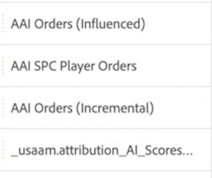
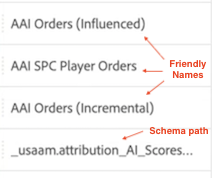
More input from Sunny

diff --git a/help/integrations/attribution-ai.md b/help/integrations/attribution-ai.md
@@ -13,7 +13,7 @@ exl-id: 5ab563b9-d4f6-4210-8789-e16e5c93d968
 
 [Attribution AI](https://experienceleague.adobe.com/docs/experience-platform/intelligent-services/attribution-ai/overview.html?lang=en), as part of Adobe Experience Platform Intelligent Services, is a multi-channel, algorithmic attribution service that calculates the influence and incremental impact of customer interactions against specified outcomes. With Attribution AI, marketers can measure and optimize marketing and advertising spend by understanding the impact of every individual customer interaction across each phase of the customer journeys. 
 
-Attribution AI integrates with Customer Journey Analytics (CJA) to the extent that Attribution AI runs models against data and then CJA imports the output of those models as a data set, which can then be integrated with the rest of your CJA data sets. Attribution AI-enabled datasets can be then be leveraged in data views and reporting in CJA. 
+Attribution AI integrates with Customer Journey Analytics (CJA) to the extent that Attribution AI runs models against customers' marketing touchpoints and conversion datasources. CJA then imports the output of those models as a data set, or it can be integrated with the rest of your CJA data sets. Attribution AI-enabled datasets can be then be leveraged in data views and reporting in CJA. 
 
 Attribution AI supports 3 Experience Platform schemas: Experience Event, Adobe Analytics, and Consumer Experience Event.
 
@@ -46,7 +46,7 @@ In Experience Platform, create an Attribution AI instance by selecting and mappi
 
 ### Step 2: Set up a CJA connection to Attribution AI datasets
 
-In CJA, you can now [create one or more connections](/help/connections/create-connection.md) to Experience Platform datasets that have been instrumented for Attribution AI. These datasets appears with the "Attribution AI Scores" prefix, as shown here:
+In CJA, you can now [create one or more connections](/help/connections/create-connection.md) to Experience Platform datasets that have been instrumented for Attribution AI. These datasets appear with the "Attribution AI Scores" prefix, as shown here:
 
 ![AAI scores](assets/aai-scores.png)
 
@@ -59,6 +59,11 @@ In CJA, [create one or more data views](/help/data-views/create-dataview.md) tha
 In a CJA Workspace project, you can pull in metrics like "AAI Orders", and dimensions like "AAI Campaign Name" or "AAI Marketing Channel", for example. 
 
 ![AAI dimensions](assets/aai-dims.png)
+
+>[!IMPORTANT]
+>
+>These dimensions and metrics are not natively named in this way. These are "friendly names". The [naming convention in Attribution AI](https://experienceleague.adobe.com/docs/experience-platform/intelligent-services/attribution-ai/input-output.html?lang=en#attribution-ai-output-data) follows the schema path. We recommend renaming the long schema path names in AAI to short, more user-friendly names (dimensions/metrics) in CJA. You can do so in **[!UICONTROL Data views]** > **[!UICONTROL Edit data view]** > **[!UICONTROL Components]** tab > **[!UICONTROL Schema fields]** -> Click on a schema field -> **[!UICONTROL Component name]**.
+
 
 **Orders with influenced and incremental scores**
 
@@ -92,30 +97,18 @@ Here, we see the lead time to conversion when a touchpoint is in the mix. It hel
 
 ![Lead time](assets/lead-time.png)
 
-## New CJA metrics
-
-| Metric | Description |
-| --- | --- |
-| [!UICONTROL Acquisition Rate] | For each channel, among the conversion paths it touched, the percentage of the channel being the Starter. |
-| [!UICONTROL Player rate] | For each channel, among the conversion paths it touched, the percentage of the channel being a Player. |
-| [!UICONTROL Closer rate] | For each channel, among the conversion paths it touched, the percentage of the channel being the Closer. |
-| [!UICONTROL AAI AVG Days Away from Order] | For each channel, the average number of days since the order. |
-| [!UICONTROL AAI AVG Total Days in Sales Process] | For each channel, the average total days of the conversion paths it touched. |
-| [!UICONTROL AVG Touches Away From Order] | For each channel, the average touches away from order. |
-
-{style="table-layout:auto"}
-
 ## Differences between Attribution AI and Attribution IQ
 
 So when should you use Attribution AI data versus [Attribution IQ](/help/analysis-workspace/attribution/overview.md), a native CJA capability? This table shows some of the differences in functionality:
 
 | Functionality | Attribution AI | Attribution IQ |
 | --- | --- | --- |
-| Does fractional attribution | Yes | No |
+| Does incremental attribution | Yes | No |
 | Allows users to adjust model | Yes | Yes |
 | Does attribution across channels (Note: AAI does not use the same stitched data that CJA does.) | Yes | Yes |
-| Includes incremental and influenced scores | Yes | No |
+| Includes influenced scores | Yes | Yes |
 | Does ML modeling | Yes | Yes |
-| Does ML modeling with predictions | Yes | No |
+| Region-based attribution models | Yes | Yes |
+| Can include marketing touchpoints in model | Yes | No |
 
 {style="table-layout:auto"}
